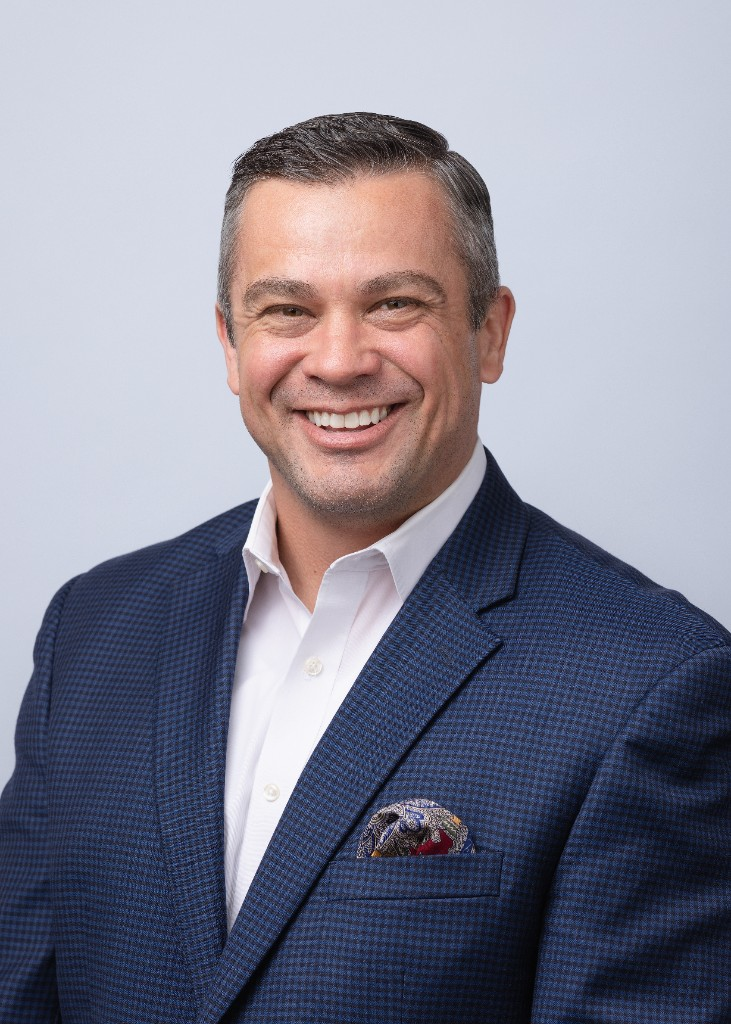
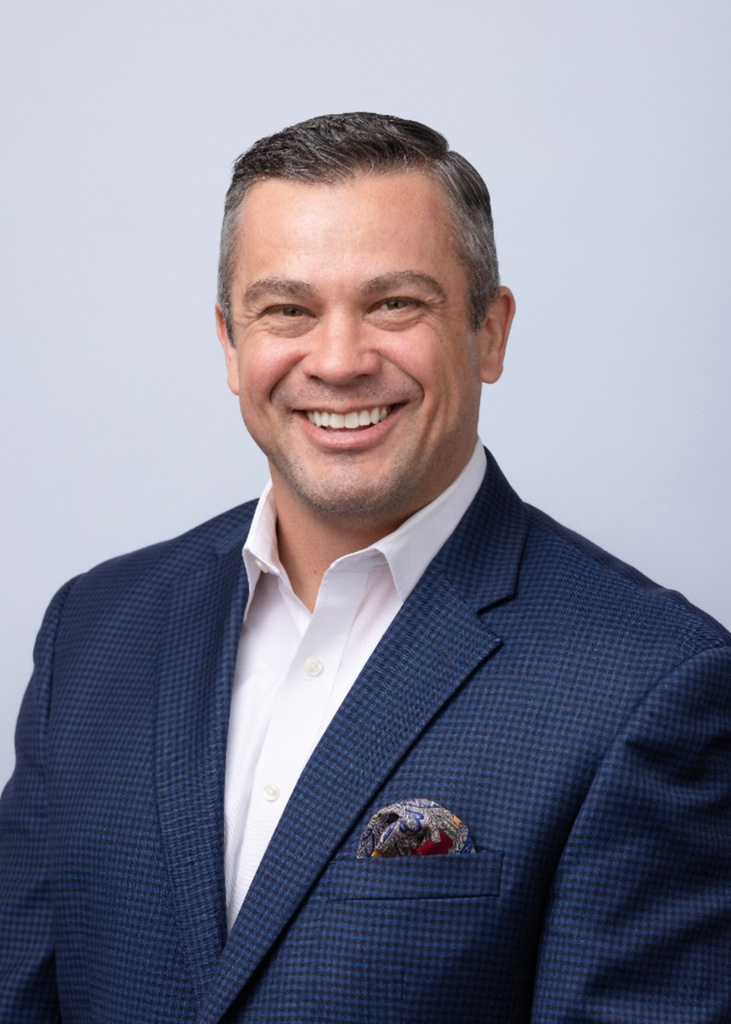
Serve a cleaned PNG hero portrait and keep the grid off the photo.

diff --git a/src/app/page.tsx b/src/app/page.tsx
@@ -23,7 +23,7 @@ export const metadata: Metadata = pageMeta({
   absoluteTitle: metaCopy.home.absoluteTitle,
   description: metaCopy.home.description,
   path: '/',
-  image: '/images/garach-hero-v2.jpg',
+  image: '/images/garach-hero-v3.jpg',
 });
 
 function BulletList({ title, items }: { title: string; items: string[] }) {
@@ -53,8 +53,9 @@ export default function HomePage() {
       {/* Hero */}
       <section className="relative overflow-x-clip overflow-hidden bg-navy-900 text-white">
         <Watermark className="-top-16 -right-28 w-[720px] opacity-[0.035]" />
-        <div className="pointer-events-none absolute inset-0 [background-image:linear-gradient(rgba(255,255,255,0.035)_1px,transparent_1px),linear-gradient(90deg,rgba(255,255,255,0.035)_1px,transparent_1px)] [background-size:80px_80px] [mask-image:radial-gradient(ellipse_at_70%_30%,#000_0%,transparent_75%)]" />
-        <div className="container-page hero-pt relative grid items-start gap-[clamp(40px,6vw,88px)] lg:grid-cols-2">
+        {/* Grid stays on the copy side only so it does not shimmer over the portrait */}
+        <div className="pointer-events-none absolute inset-y-0 left-0 w-full max-w-[58%] [background-image:linear-gradient(rgba(255,255,255,0.03)_1px,transparent_1px),linear-gradient(90deg,rgba(255,255,255,0.03)_1px,transparent_1px)] [background-size:80px_80px] [mask-image:linear-gradient(90deg,#000_0%,#000_55%,transparent_100%)]" />
+        <div className="container-page hero-pt relative z-[1] grid items-start gap-[clamp(40px,6vw,88px)] lg:grid-cols-2">
           <div className="min-w-0 pb-[clamp(40px,6vw,96px)] lg:pt-2">
             <Eyebrow tone="light" className="mb-7">
               Agency Ownership Opportunity
@@ -82,18 +83,17 @@ export default function HomePage() {
             </div>
           </div>
 
-          <div className="relative min-w-0 self-stretch">
-            <div className="absolute inset-y-0 right-0 left-[8%] border-t-[3px] border-ember-500 bg-gradient-to-b from-navy-800 to-navy-850 sm:left-[12%]" />
-            <div className="relative ml-[8%] aspect-[4/5] max-h-[560px] w-[92%] overflow-hidden sm:ml-[12%] sm:max-h-[640px] sm:w-[88%]">
+          <div className="relative z-[2] min-w-0 self-stretch">
+            <div className="absolute inset-y-0 right-0 left-[8%] border-t-[3px] border-ember-500 bg-navy-800 sm:left-[12%]" />
+            <div className="relative ml-[8%] aspect-[4/5] max-h-[560px] w-[92%] overflow-hidden bg-navy-800 sm:ml-[12%] sm:max-h-[640px] sm:w-[88%]">
               <Image
-                src="/images/garach-hero-v2.jpg"
+                src="/images/garach-hero-v3.png"
                 alt="Garach Smith, District Manager at Homestead District"
                 fill
                 priority
-                quality={100}
                 unoptimized
                 sizes="(min-width: 1024px) 560px, 90vw"
-                className="object-cover object-[center_15%] [image-rendering:high-quality]"
+                className="object-cover object-[center_15%]"
               />
             </div>
             <div className="absolute bottom-6 left-0 max-w-[min(290px,calc(100%-1rem))] bg-cream-100 px-5 py-4 text-navy-900 shadow-[0_24px_48px_rgba(0,0,0,0.35)] sm:bottom-10 sm:px-[26px] sm:py-[22px]">
@@ -325,13 +325,12 @@ export default function HomePage() {
             <div className="pointer-events-none absolute top-4 right-0 bottom-0 left-4 border-[3px] border-ember-500 sm:top-6 sm:left-6" />
             <div className="relative aspect-[4/5] w-full max-w-full overflow-hidden">
               <Image
-                src="/images/garach-hero-v2.jpg"
+                src="/images/garach-hero-v3.png"
                 alt="Garach Smith, District Manager"
                 fill
-                quality={100}
                 unoptimized
                 sizes="(min-width: 1024px) 560px, 90vw"
-                className="object-cover object-[center_20%] [image-rendering:high-quality]"
+                className="object-cover object-[center_20%]"
               />
             </div>
           </div>

diff --git a/src/app/about/page.tsx b/src/app/about/page.tsx
@@ -218,13 +218,12 @@ export default function AboutPage() {
             <div className="pointer-events-none absolute top-4 right-0 bottom-0 left-4 border-[3px] border-ember-500 sm:top-6 sm:left-6" />
             <div className="relative aspect-[4/5] w-full overflow-hidden">
               <Image
-                src="/images/garach-hero-v2.jpg"
+                src="/images/garach-hero-v3.png"
                 alt="Garach Smith, District Manager"
                 fill
-                quality={100}
                 unoptimized
                 sizes="(min-width: 1024px) 460px, 90vw"
-                className="object-cover object-[center_20%] [image-rendering:high-quality]"
+                className="object-cover object-[center_20%]"
               />
             </div>
           </div>

diff --git a/src/app/meet-garach/page.tsx b/src/app/meet-garach/page.tsx
@@ -37,13 +37,12 @@ export default function MeetGarachPage() {
             <div className="absolute inset-y-0 right-0 left-[12%] border-t-[3px] border-ember-500 bg-navy-800" />
             <div className="relative ml-[12%] aspect-[4/5] w-[88%] overflow-hidden">
               <Image
-                src="/images/garach-hero-v2.jpg"
+                src="/images/garach-hero-v3.png"
                 alt="Garach Smith, District Manager"
                 fill
-                quality={100}
                 unoptimized
                 sizes="(min-width: 1024px) 400px, 80vw"
-                className="object-cover object-[center_15%] [image-rendering:high-quality]"
+                className="object-cover object-[center_15%]"
               />
             </div>
           </div>

diff --git a/src/app/opportunity/page.tsx b/src/app/opportunity/page.tsx
@@ -265,7 +265,7 @@ export default function OpportunityPage() {
                 <div className="relative size-16 shrink-0 rounded-full border-2 border-ember-500 p-[3px]">
                   <div className="relative size-full overflow-hidden rounded-full bg-[#d9dde3]">
                     <Image
-                      src="/images/garach-hero-v2.jpg"
+                      src="/images/garach-hero-v3.jpg"
                       alt="Garach Smith"
                       fill
                       sizes="64px"
